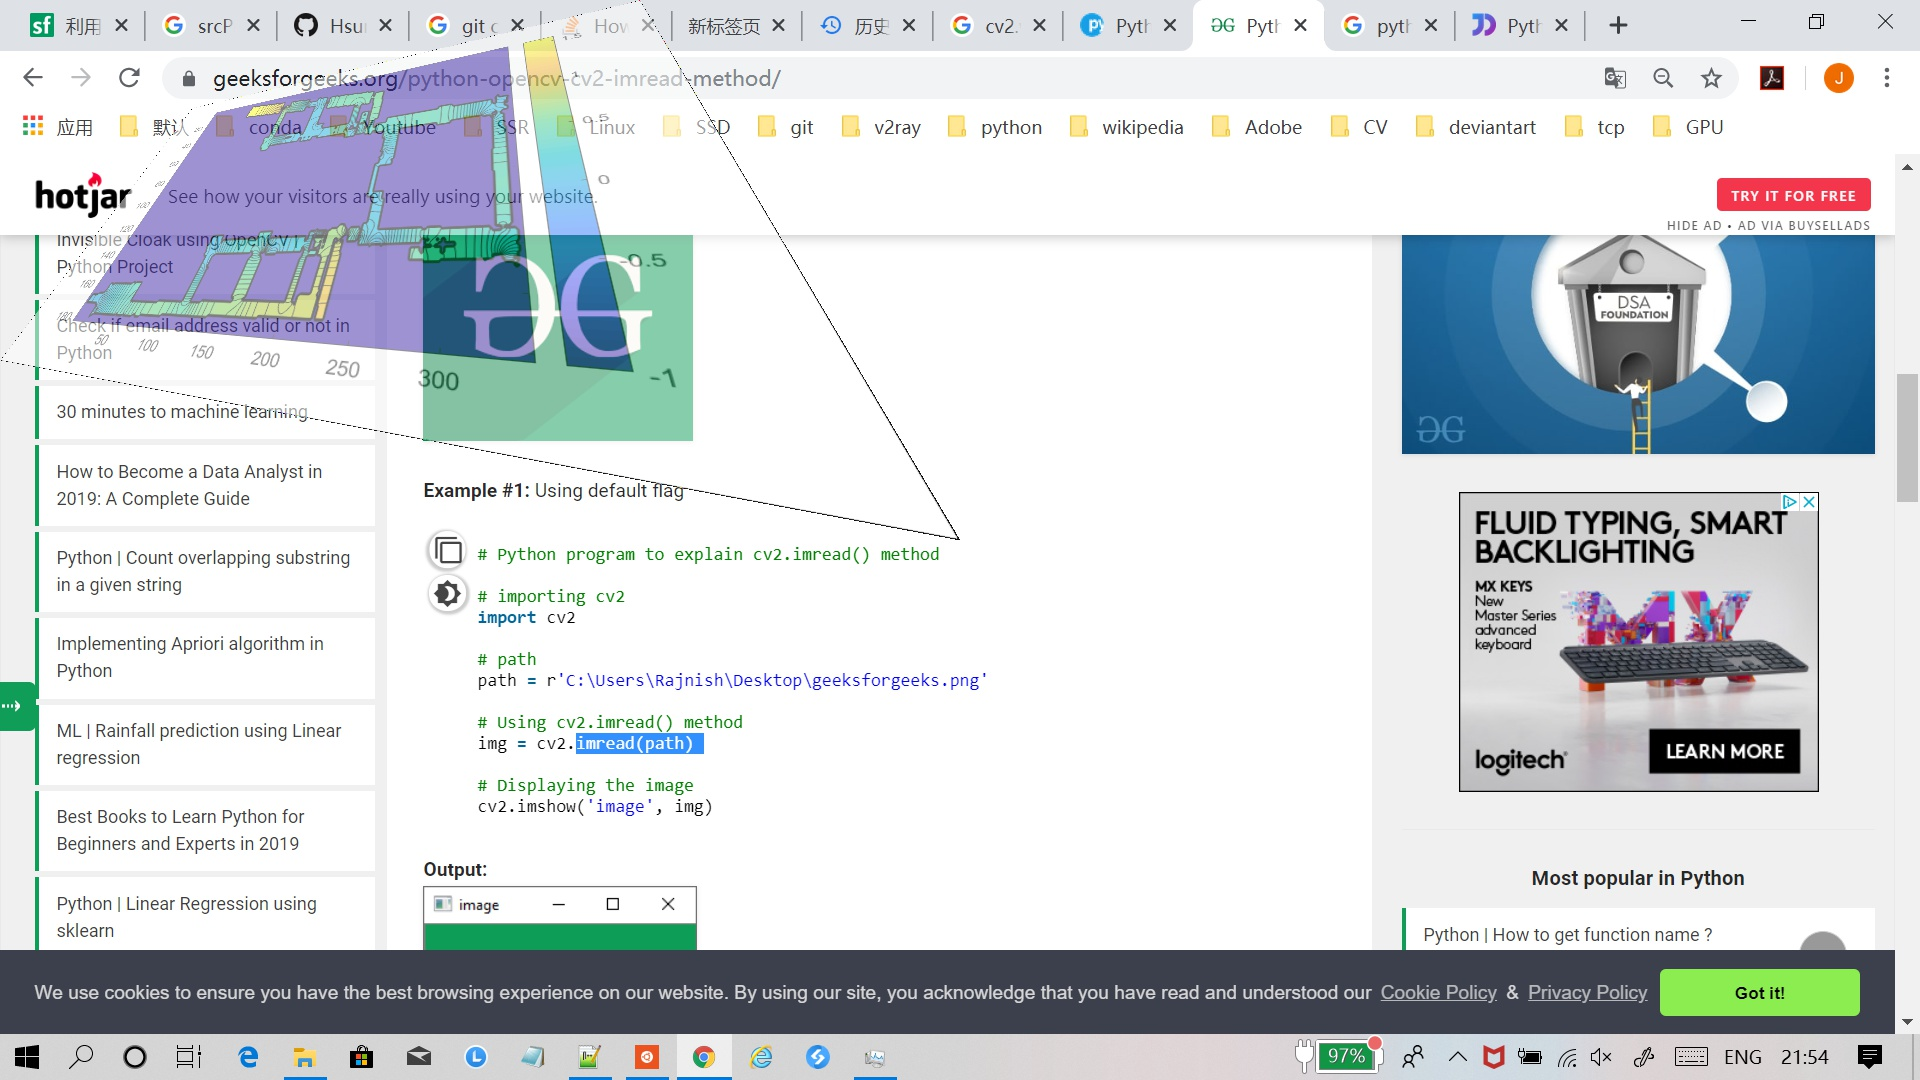
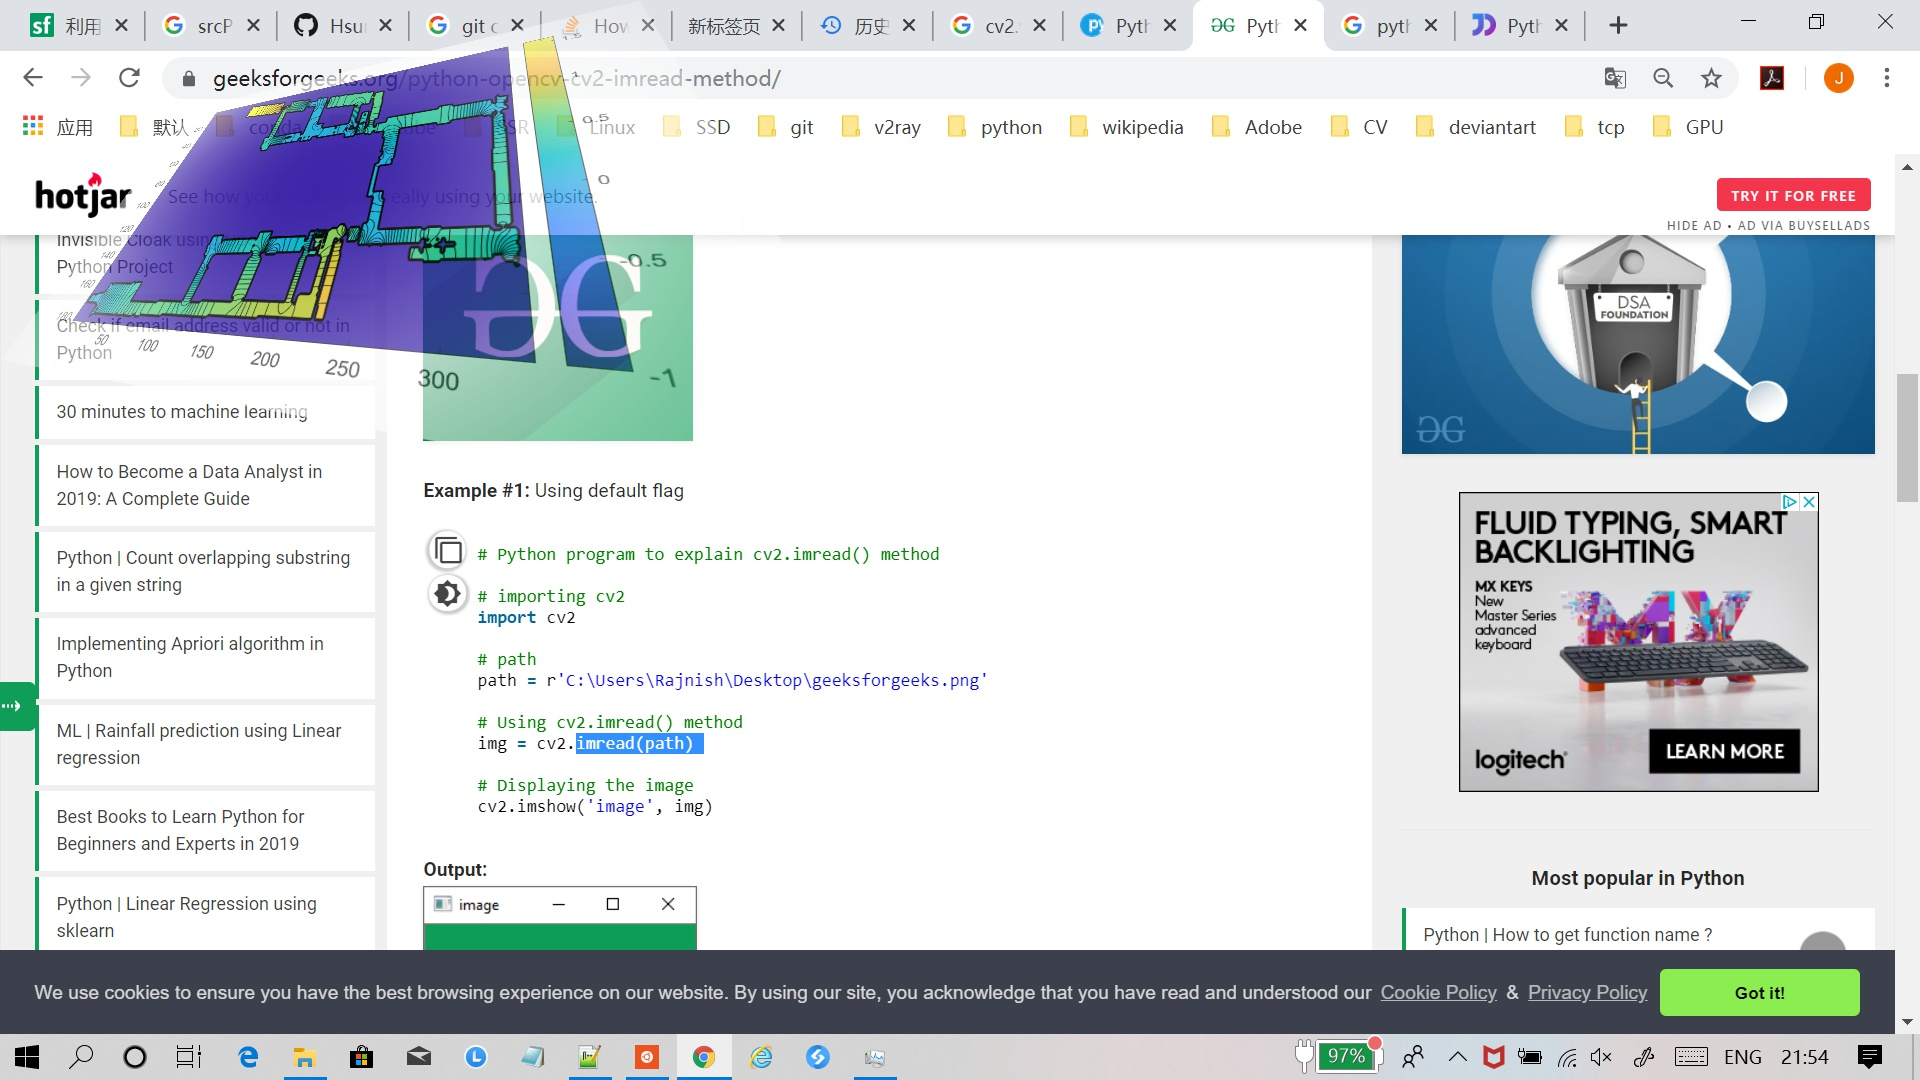
utils

Changed region(s): [[0.0625, 0.0306, 0.3125, 0.3972]]

diff --git a/utils/utils.py b/utils/utils.py
@@ -1,5 +1,6 @@
 import cv2
 import numpy as np
+import math
 # def 
 """
 Usage:
@@ -31,17 +32,36 @@ Usage
     ad : Advertisement, np.uint8
     k : transparency (of ad) 0 to 1. 
 """
-def Trans_forward(im, rect, ad, k=.5):
+def Trans_forward(im, rect, ad, k=.2):
     w,h,_ = ad.shape
     iw, ih, _ = im.shape
     standart_rect = np.array([[0, 0], [0, w], [h, w], [h, 0]] , dtype = np.float32)
-    blank = np.ones(ad.shape, dtype = np.uint8)
-    trans = getTrans(standart_rect, rect)
-    blank_tran = (np.ones((1,), dtype = np.uint8) - Trans_into(blank, trans, (ih, iw)).astype(np.float16) * np.float16(1-k))
+    blank = (np.ones(ad.shape, dtype = np.float16) * (1-k) * 255).astype(np.uint8)
+    trans = getTrans(standart_rect, rect) 
+    blank_tran = np.ones((1,), dtype = np.uint8) - Trans_into(blank, trans, (ih, iw)).astype(np.float16)/255
     im = im * blank_tran
-    ad_tran = Trans_into(ad, trans, (ih,iw)) * np.float16(1-k)
+    ad_tran = Trans_into((ad * (1-k)).astype(np.uint8), trans, (ih,iw))
     return np.array(im+ad_tran, dtype = np.uint8)
 
+def gen_k_mat(im_shape, k = 2):
+    w, h, _ = im_shape
+    a = np.arange(w*h, dtype = np.int64).reshape((w,h))
+    uv = np.zeros((w,h,2), dtype = np.float32)
+    
+    uv[:,:,0] = a // h
+    uv[:,:,1] = a  % h
+    
+    cen = np.array(((w-1)/2,(h-1)/2),dtype = np.float32)
+    dist = uv - cen.reshape((1,1,2))
+    dist = dist*dist
+    dist = dist[:,:,0]+dist[:,:,1]
+    #dist = np.sqrt(dist)
+    #dist = dist / math.sqrt(w*h) 
+    dist = dist / np.max(dist) * k
+    k = 1/(np.exp(-dist)+1) .reshape((w,h,1))*2-1
+    
+    return k
+    
 
 if (__name__ == "__main__"):
     im = cv2.imread(r'img.jpg')
@@ -50,7 +70,8 @@ if (__name__ == "__main__"):
     a = np.array([[0,0],[0,w-1],[h-1,0],[h-1,w-1]], dtype = np.float32)
     b = np.array([[h/10,w/10],[0,w/3],[h/2,w/2],[h/3,0]], dtype = np.float32)
     # m = getTrans(a,b)
-    r = Trans_forward(im,b,ad)
+    #r = Trans_forward(im,b,ad, k = np.ones(ad.shape)*.1)
+    r = Trans_forward(im,b,ad, k = gen_k_mat(ad.shape))
 
     cv2.imwrite(r'saved.jpg',r)
 
